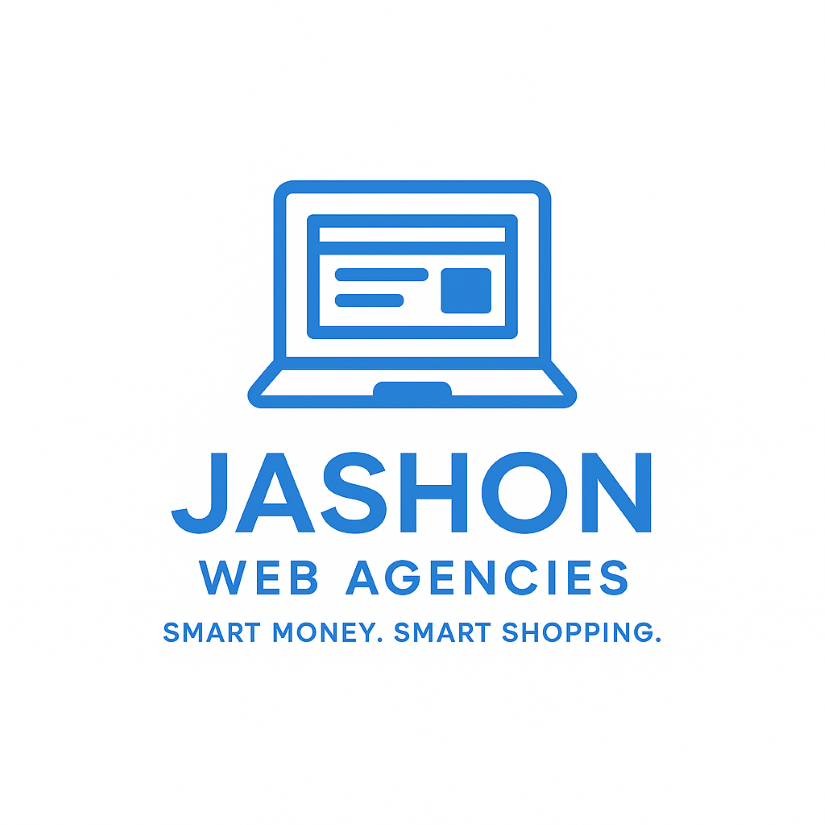
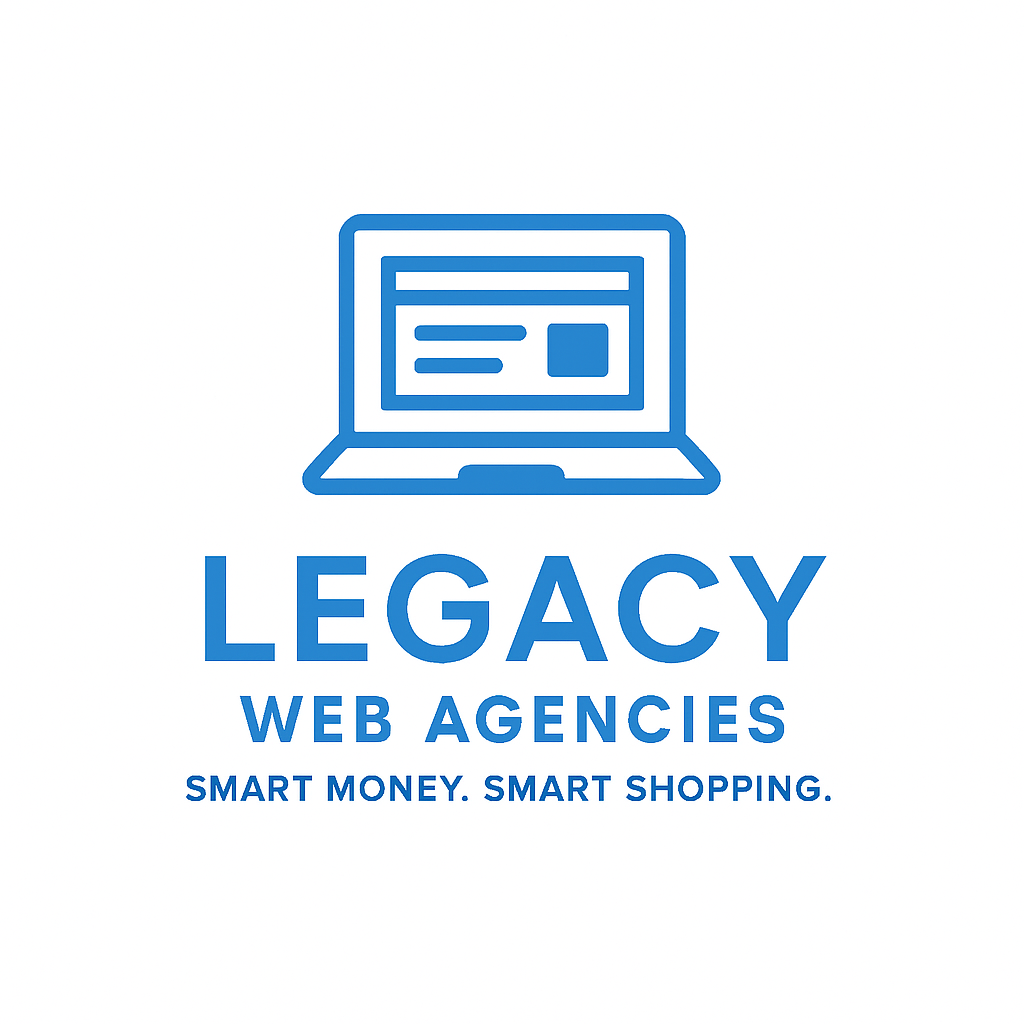
Add files via upload

Changed region(s): [[0.1818, 0.1818, 0.8182, 0.7273], [0.1818, 0.7576, 0.8182, 0.7879]]

diff --git a/index.html b/index.html
@@ -13,7 +13,7 @@
   <header>
     <div class="container nav">
       <div class="brand">
-        <div class="logo"><img src="./Images/icon.png" alt="icon" height="30px"/></div>
+        <div class="logo"><img src="./Images/icon.png" alt="icon" height="56px"/></div>
         <div>
           <div style="font-weight:700">Legacy Web Agencies</div>
           <div class="muted" style="font-size:13px">Student Finance & Web Solutions</div>
@@ -58,7 +58,7 @@
       </div>
 
       <aside class="card">
-        <h3 style="margin-top:0">Why choose Jashon Web Agencies?</h3>
+        <h3 style="margin-top:0">Why choose Legacy Web Agencies?</h3>
         <ul class="muted">
           <li>Student prices — real value</li>
           <li>Fast delivery — 3–7 days for most projects</li>
@@ -75,7 +75,7 @@
 
     <section id="about" style="margin-top:36px">
       <h2>About Us</h2>
-      <p class="muted">Jashon Web Agencies is a student‑led web and business solutions studio based around Maseno, Kenya. We help students, entrepreneurs and microbusinesses build affordable, mobile‑friendly websites and monetization strategies — including affiliate setups and simple finance coaching.</p>
+      <p class="muted">Legacy Web Agencies is a student‑led web and business solutions studio based around Maseno, Kenya. We help students, entrepreneurs and microbusinesses build affordable, mobile‑friendly websites and monetization strategies — including affiliate setups and simple finance coaching.</p>
       <div style="display: flex; flex-direction: column; gap: 10px;">
         <div class="card">
           <h3>Our Mission</h3>
@@ -210,10 +210,10 @@
   <footer style="background:white;border-top:1px solid #e6eef7;margin-top:24px">
     <div class="container" style="display:flex;justify-content:space-between;align-items:center">
       <div>
-        <strong>Jashon Web Agencies</strong>
+        <strong>Legacy Web Agencies</strong>
         <div class="muted">Building websites & student ventures — Maseno, Kenya</div>
       </div>
-      <div class="muted">© 2025 Jashon Web Agencies</div>
+      <div class="muted">© 2025 Legacy Web Agencies</div>
     </div>
   </footer>
 

diff --git a/public/style.css b/public/style.css
@@ -6,7 +6,7 @@
     header{background:linear-gradient(90deg,#eaf6ff,white);border-bottom:1px solid #e6eef7}
     .nav{display:flex;align-items:center;justify-content:space-between;padding:18px 0}
     .brand{display:flex;gap:12px;align-items:center}
-    .logo{width:40px;height:40px;border-radius:10px;background:var(--blue);display:flex;align-items:center;justify-content:center;color:white;font-weight:700}
+    .logo{width:56px;height:56px;border-radius:10px;background:var(--blue);display:flex;align-items:center;justify-content:center;color:white;font-weight:700}
     nav ul{display:flex;gap:16px;list-style:none;margin:0;padding:0}
     .btn-primary{background:var(--blue);color:white;padding:10px 16px;border-radius:8px;display:inline-block}
     .hero{display:grid;grid-template-columns:1fr 420px;gap:32px;align-items:center;padding:40px 0}
@@ -20,6 +20,10 @@
     .testimonial{background:linear-gradient(180deg,white,#f6fbff);padding:16px;border-radius:10px}
     footer{padding:28px 0;color:var(--muted)}
     .flex{display:flex;gap:12px;align-items:center}
+
+    img{
+      border-radius: 10px;
+    }
 
     ::placeholder{
       color: skyblue;
